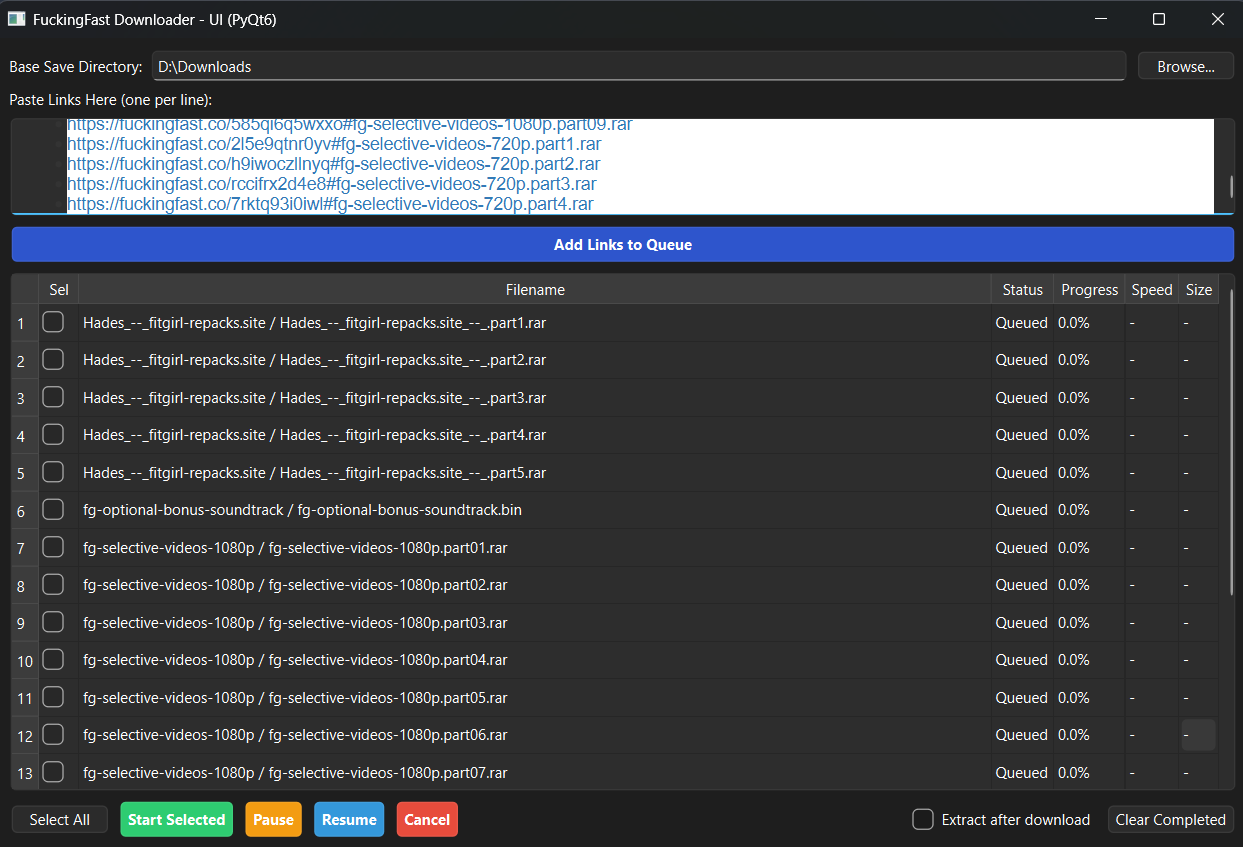
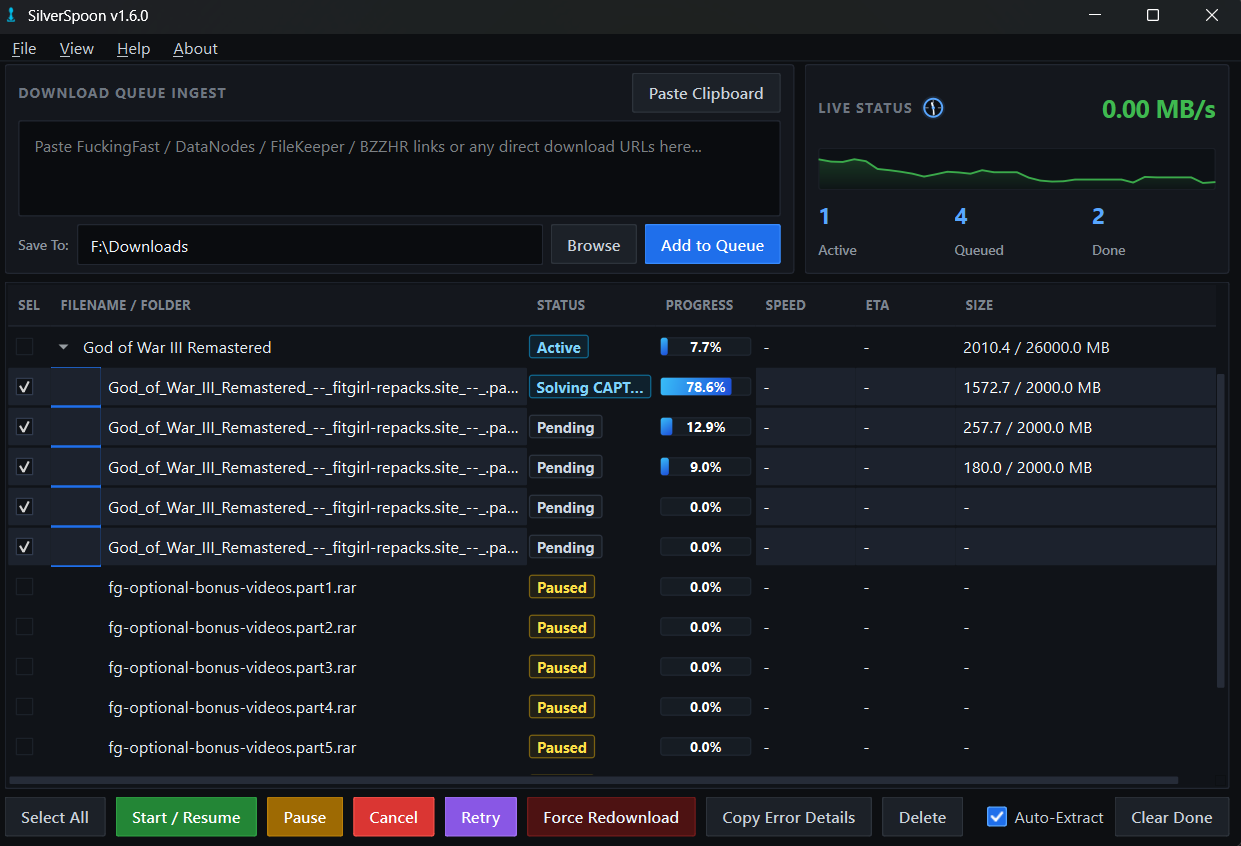
docs: README for v1.6.0 with new screenshots

diff --git a/README.md b/README.md
@@ -1,41 +1,52 @@
 # SilverSpoon (previously FitGirlDownloader)
 
-> **Note:** `fuckingfast.co` and `datanodes.to` links (commonly used by FitGirl Repacks and direct download mirrors) go through the built-in Cloudflare Turnstile solver, `bzzhr.to` links go through the same solver for the site's Cloudflare check, and `filekeeper.net` links are resolved automatically (no browser needed). Since v1.6.0 any other plain `http(s)` direct link is downloaded straight away, with the same pause/resume/progress support.
+A Python bulk downloader for file hosts used by FitGirl Repacks, SteamRIP and similar sites. Paste a batch of links and SilverSpoon gets past each host's Cloudflare check or countdown, fetches the real download links, and downloads everything in parallel with pause, resume and automatic extraction. Ordinary direct download links can be queued alongside them.
 
-A Python-based bulk downloader designed to bypass Cloudflare protections on file-hosting sites like *fuckingfast.co* and *datanodes.to*, and to queue ordinary direct download links alongside them. It automates the process of extracting direct download links and supports concurrent downloading with pause and resume capabilities.
+## Supported Hosts
+
+| Host | How links are resolved |
+|---|---|
+| `fuckingfast.co` | Built-in Cloudflare Turnstile solver (hidden Chromium browser) |
+| `datanodes.to` | Built-in solver, including DataNodes' two-step download page and countdown |
+| `bzzhr.to` | Built-in solver for the site's Cloudflare check; the file then downloads with multiple connections |
+| `filekeeper.net` | Plain HTTP: waits out the countdown and requests the link, no browser needed |
+| Any other `http(s)` link | Downloaded directly, with multiple connections when the server allows it |
 
 ## Features
 
-* **Auto-Updater:** (Windows only) Checks for new releases on launch (or via `Help -> Check for Updates...`). An update is added to your normal download queue — start, pause and resume it like any other task; it saves to your Save-To folder and skips the CAPTCHA step. When it finishes, choose **Install now** (restart) or **Install on next open**.
-* **Multi-Connection Downloads:** Direct links download over several parallel connections (default 4, configurable in Settings) with resume across pauses and restarts, falling back to a single connection when the server doesn't support it.
-* **FileKeeper Support:** `filekeeper.net` links (FitGirl mirrors) wait out the host's countdown and fetch the direct link over plain HTTP, then download with resume, pause and progress; a fresh link is fetched each time a download starts or resumes.
-* **General Direct-URL Downloads:** Any link whose host isn't a Turnstile-protected provider is downloaded directly over HTTP with resume, pause and progress — the queue is not limited to FuckingFast/DataNodes.
-* **Cross-Platform Extraction:** Built-in auto-extraction support for Windows (bundled `7z`), as well as Linux and macOS (via `/usr/bin/7z` / `p7zip`).
-* **Cloudflare Turnstile Bypass:** Uses a hidden Chromium browser (via `nodriver`) to auto-solve Cloudflare Turnstile challenges invisibly, then downloads via `curl_cffi` with TLS impersonation. No manual CAPTCHA solving needed for normal IPs. A failed resolution tears the browser down instead of reusing a broken one, so Chromium no longer re-spawns endlessly.
-* **Persistent Download History:** Automatically saves your task queue, progress, and folder groupings across sessions. Close the app anytime without losing your place!
-* **Grouped Batch Folders:** Downloads are neatly organized into collapsible dropdown trees, showing aggregated progress, speed, and ETA for entire batches.
-* **Smart Folder Grouping & Batching:** Automatically suggests a unified folder name for a batch of links, perfectly grouping main game parts and messy optional files together.
-* **Persistent Settings:** Your preferences (save directory, concurrent workers, extraction options) are saved and remembered for your next session.
-* **Download Scheduler:** Set up scheduled download windows (weekly or one-off) for off-peak downloading, with optional Windows wake timers and sleep prevention.
-* **Bandwidth Limiter:** Set a global download speed limit in Settings to reserve network bandwidth for other apps.
-* **Import Links & Smart Clipboard Extraction:** Load link lists from `.txt` files or paste text/HTML directly — SilverSpoon automatically extracts valid `http` links from formatted webpage clipboard data.
-* **Inline Progress Bars:** Visual progress bars painted directly behind filenames and batch folders in the queue.
-* **Live Speed & ETAs:** Features a real-time global download speed tracker and calculates Estimated Time Remaining (ETA) for both individual files and total batch completions.
-* **Context Menu Actions:** Right-click tasks to manually extract archives ("Extract Now"), open download directories ("Open Folder"), schedule intervals, retry, or force redownload.
-* **Customizable UI & Shortcuts:** Interactive, resizable columns that save their state, responsive button feedback (hover/pressed/disabled states), plus right-click context menus and handy keyboard shortcuts (e.g., `Space` to pause/resume, `Delete` to remove tasks).
-* **Auto-Retry & CAPTCHA Timeout:** Configurable options to automatically retry failed downloads up to 3 times and customize Turnstile CAPTCHA wait timeouts.
-* **File Management:** Safely delete tasks and optionally remove their associated physical files from your disk, or use "Force Redownload" to wipe and restart a corrupted file.
-* **Error Diagnostics:** Hover over failed tasks for detailed tooltips, and easily copy error logs for quick troubleshooting.
-* **Direct Link Extraction:** Automatically simulates the internal HTMX POST requests required to fetch the real `.rar` direct links.
-* **Multi-threading:** Downloads multiple parts concurrently (default 3 workers, customizable in Settings) to maximize bandwidth.
-* **Pause, Resume & Retry:** Safely pause your downloads, recover from network drops, or quickly retry errored links using HTTP `Range` headers.
-* **Graphical Interface:** Includes a clean, modern GUI built with PyQt6.
-* **Command Line Interface:** Also includes a lightweight CLI script for server environments or automation.
+**Downloading**
+* **Multi-Connection Downloads:** Direct links download over several parallel connections (default 4, `File -> Settings -> Connections per Download`; 1 turns it off). Each part is written straight into one file, and progress is saved beside it so pause and app restarts resume where every part stopped. Hosts that refuse extra connections are handled by carrying on with fewer.
+* **Concurrent Queue:** Downloads several files at once (default 3, customizable in Settings) with a live global speed graph and per-file and per-batch ETAs.
+* **Pause, Resume & Retry:** Pause anytime, recover from network drops, or retry failed links; resumes use HTTP `Range` requests. Optional auto-retry (up to 3 times).
+* **Bandwidth Limiter:** A global speed limit in Settings reserves bandwidth for other apps.
+* **Real File Names:** Links without a file name (such as `bzzhr.to/<id>`) use the name the server sends.
+
+**Cloudflare & CAPTCHAs**
+* **Background Solver:** A Chromium browser (via `nodriver`) passes Cloudflare Turnstile checks automatically. It runs off-screen, so no window pops up for every link.
+* **Pops Up Only When Needed:** If a check wants a human click ("Verify you are human"), the browser window comes to the front, the task shows **Waiting for you to solve CAPTCHA**, and you get extra time to complete it; it hides again afterwards. `File -> Settings -> Show the CAPTCHA browser window` keeps it visible.
+* **Self-Healing:** A failed resolution closes the browser instead of reusing a broken one, so it never re-spawns endlessly.
+
+**Extraction**
+* **Auto-Extract:** Tick **Auto-Extract** and each finished batch is extracted with the bundled 7-Zip on Windows, or `7z`/`7zz` on Linux and macOS.
+* **Progress & Cancel:** A progress bar shows extraction progress for each task and batch; **Cancel** stops it, and **Extract Now** resumes later.
+* **Skips Finished Work:** Auto-extract skips batches whose files are already on disk with the right sizes, and **Extract Now** asks before overwriting an extracted batch.
+
+**Queue & Workflow**
+* **Grouped Batch Folders:** Downloads are grouped into collapsible batch folders with aggregated progress, speed and ETA. A folder name is suggested so main parts and optional files land together.
+* **Smart Clipboard & Import:** Paste text or rich HTML (e.g. a copied table) and SilverSpoon extracts the links, or import a `.txt` list.
+* **Download Scheduler:** Download automatically during an off-peak window (weekly or one-off), with optional Windows wake timers and sleep prevention.
+* **Persistent History & Settings:** Your queue, progress, folders and preferences survive restarts.
+* **Single Instance:** Only one copy runs at a time, so two windows can't corrupt the shared queue.
+* **Auto-Updater (Windows):** New releases are added to your download queue; when one finishes, choose **Install now** or **Install on next open**.
+* **Diagnostics & Shortcuts:** Error tooltips, **Copy Error Details**, right-click actions (Extract Now, Open Folder, Retry, Force Redownload, scheduling) and keyboard shortcuts (`Space` to pause/resume, `Delete` to remove).
+* **Dark & Light Themes**, plus a lightweight **command-line** script.
 
 ## Requirements
 
 * Python 3.10+
 * Dependencies listed in `requirements.txt`
+* For FuckingFast, DataNodes and BZZHR: a Chromium-based browser. The Windows release bundles one; from source on Windows or Linux, an installed Chrome, Chromium, Edge or Brave works, or install Playwright's with `python -m playwright install chromium`. (The solver doesn't look for browsers on macOS yet, so those hosts don't work there; FileKeeper and direct links do.)
+* For extraction on Linux/macOS: 7-Zip (`7zip` or `p7zip` package). Windows uses the bundled `7z.exe`.
 
 ## Installation
 
@@ -44,10 +55,12 @@ A Python-based bulk downloader designed to bypass Cloudflare protections on file
    git clone https://github.com/billysams21/SilverSpoon.git
    cd SilverSpoon
    ```
-2. Install the required Python packages (or do it inside virtual environment):
+2. Install the required Python packages (or do it inside a virtual environment):
    ```bash
    pip install -r requirements.txt
    ```
+
+Or download the ready-made Windows build (`SilverSpoon-windows.zip`) from the [Releases](https://github.com/billysams21/SilverSpoon/releases) page.
 
 ## Usage
 
@@ -59,19 +72,25 @@ python pyqt_downloader.py
 
 ![App Screenshot 1](assets/screenshot1.png)
 
-1. Click **Browse...** to select your base save directory (or set a persistent default in `File -> Settings`).
-2. Open the game link and click the provider you want to use (FuckingFast or DataNodes). Plain direct links from any other host can be pasted as-is.
+1. Click **Browse** to select your base save directory (or set a default in `File -> Settings`).
+2. Open the game page and pick a mirror (FuckingFast, DataNodes, FileKeeper, or BZZHR on SteamRIP). Plain direct links from any other host can be pasted as-is.
 ![FitGirl 1](assets/fitgirl1.png)
 3. Copy the links you want to download.
-![FitGirl 2](assets/fitgirl2.png)
-4. Paste your links into the top text box (one per line) or use `File -> Import Links from File...`. You can also copy links/tables straight from your browser and click **Paste from Clipboard**—SilverSpoon automatically extracts the direct URLs from rich HTML clipboard data.
+4. Paste your links into the top text box (one per line) or use `File -> Import Links from File...`. You can also copy links or tables straight from your browser and click **Paste Clipboard**; SilverSpoon extracts the URLs from rich HTML clipboard data.
 ![App Screenshot 2](assets/screenshot2.png)
-5. Click **Add Links to Queue**. A prompt will appear allowing you to confirm the Batch Folder name so all main and optional files go to the exact same place.
-6. Click **Select All** (or check individual boxes) for the files you want to download.
-7. (Optional) Check the **Extract after download** checkbox if you want files extracted automatically using the built-in 7-Zip engine.
-8. Click the green **Start / Resume** button to begin downloading.
+5. Click **Add to Queue** and confirm the batch folder name, so all main and optional files go to the same place.
+6. Click **Select All** (or tick individual boxes) for the files you want to download.
+7. (Optional) Tick **Auto-Extract** to extract each batch automatically once all its parts are downloaded.
+8. Click **Start / Resume** to begin downloading.
 ![App Screenshot 3](assets/screenshot3.png)
-9. Use the **Pause** and **Start / Resume** buttons to manage your selected downloads at any time.
+9. Use **Pause**, **Cancel** and **Start / Resume** to manage your selected downloads at any time. If the CAPTCHA browser pops up, complete the check and the download continues.
+
+### Useful Settings (`File -> Settings`)
+* **Max Concurrent Downloads**: how many files download at once.
+* **Connections per Download**: parallel connections per file for direct links (1 = off).
+* **Global Bandwidth Limit**: total speed cap.
+* **CAPTCHA Solve Timeout** and **Show the CAPTCHA browser window**: how long the solver waits on its own, and whether its window stays visible.
+* **Extract after download by default** and **Automatically retry failed downloads**.
 
 ### Download Scheduler
 Queue your links, then let SilverSpoon download them automatically during a chosen window (e.g. off-peak hours):
@@ -82,18 +101,16 @@ Queue your links, then let SilverSpoon download them automatically during a chos
 5. *(Optional, Windows)* Tick **Wake the computer to run downloads** to register a Windows wake timer that powers the PC on and launches SilverSpoon when the window starts. Leave **Keep the computer awake** on so it doesn't sleep mid-download.
 6. Click **Add Schedule**. When the window opens, SilverSpoon verifies your connection and starts the scheduled downloads; when it closes, it pauses them and shows a summary (also saved to `~/.silverspoon_offpeak_report.jsonl`).
 
-> **Note:** The wake timer is Windows-only. On Linux/macOS the app still auto-starts and keeps the display awake while it is running, but it cannot power the machine on from a fully off state.
->
-> **When using the wake timer, close SilverSpoon (or let the PC sleep) beforehand** so the timer launches a single fresh instance. SilverSpoon does not yet guard against multiple instances, and running two copies against the same queue can corrupt partially-downloaded files.
+> **Note:** The wake timer is Windows-only. On Linux/macOS the app still auto-starts and keeps the display awake while it is running, but it cannot power the machine on from a fully off state. If SilverSpoon is already open when the wake timer fires, the new launch exits quietly and the running window handles the schedule.
 
 ### Using the CLI
-If you prefer the command line:
+For servers or automation:
 1. Put your links into `link.txt` (one per line).
 2. Run the script:
    ```bash
    python downloader.py link.txt
    ```
-*(Files will be downloaded to the current working directory).*
+*(Files are downloaded to the current working directory. The CLI handles the browser-solved hosts: FuckingFast, DataNodes and BZZHR. FileKeeper, plain direct links, multi-connection downloads and extraction are GUI-only.)*
 
 ## Building the Windows executable
 
@@ -101,7 +118,7 @@ Run `build_exe.bat` (needs `pyinstaller` and a Playwright Chromium under `%LOCAL
 
 ## Contributing
 
-We welcome contributions! If you'd like to help improve SilverSpoon, please see our [Contributing Guide](CONTRIBUTING.md) for instructions on how to set up your environment, follow our branching strategy (`dev` branch), and submit Pull Requests.
+We welcome contributions! See the [Contributing Guide](CONTRIBUTING.md) for how to set up your environment, follow the branching strategy (`dev` branch) and submit Pull Requests. The headless tests run with `python test_<name>.py` (e.g. `python test_providers.py`), and GitHub Actions runs all of them on every push and pull request.
 
 ## Changelog
 
